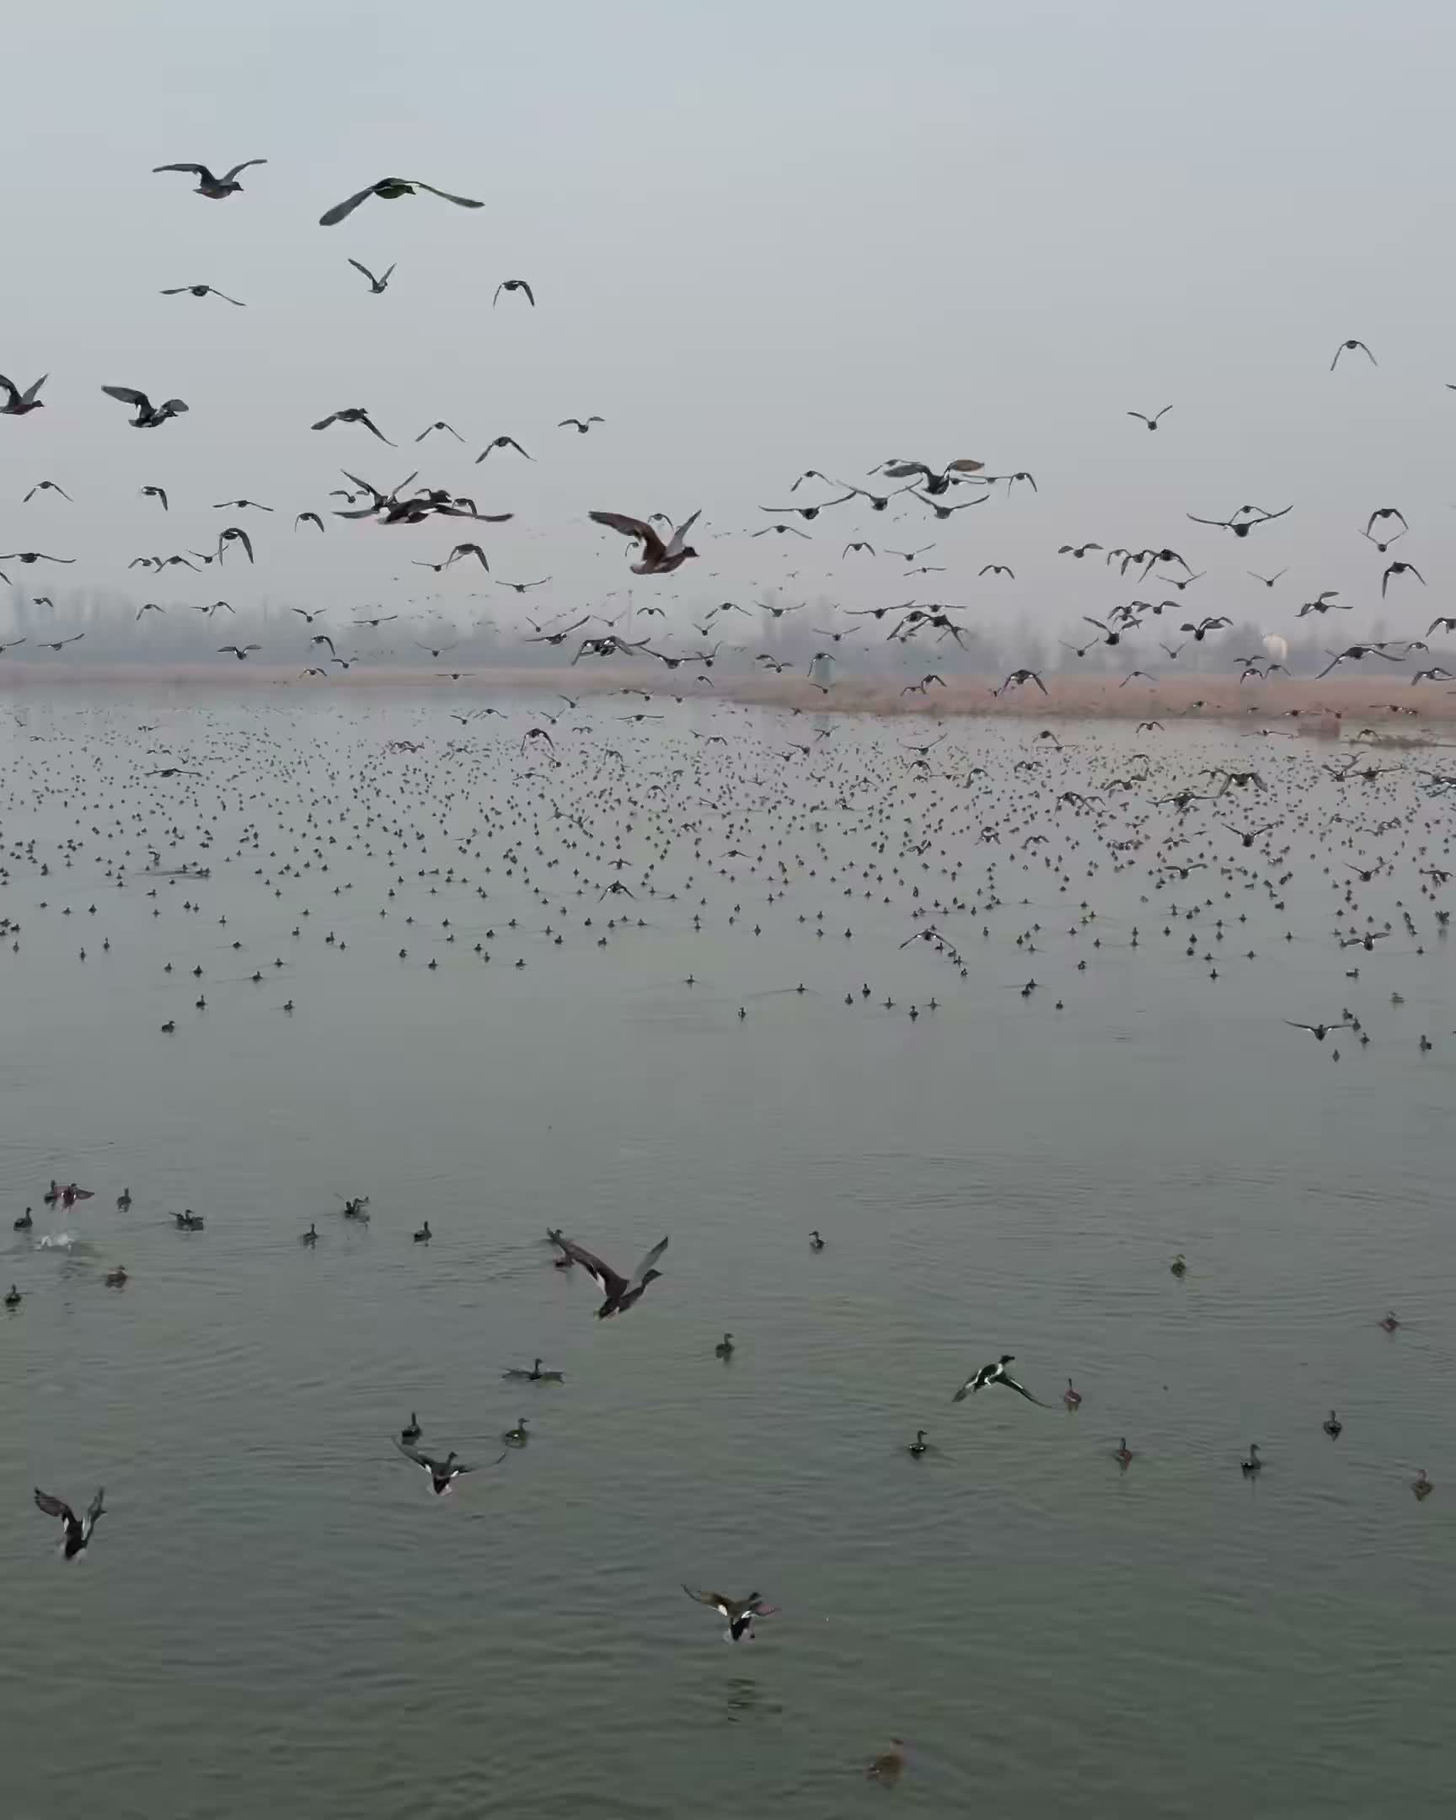
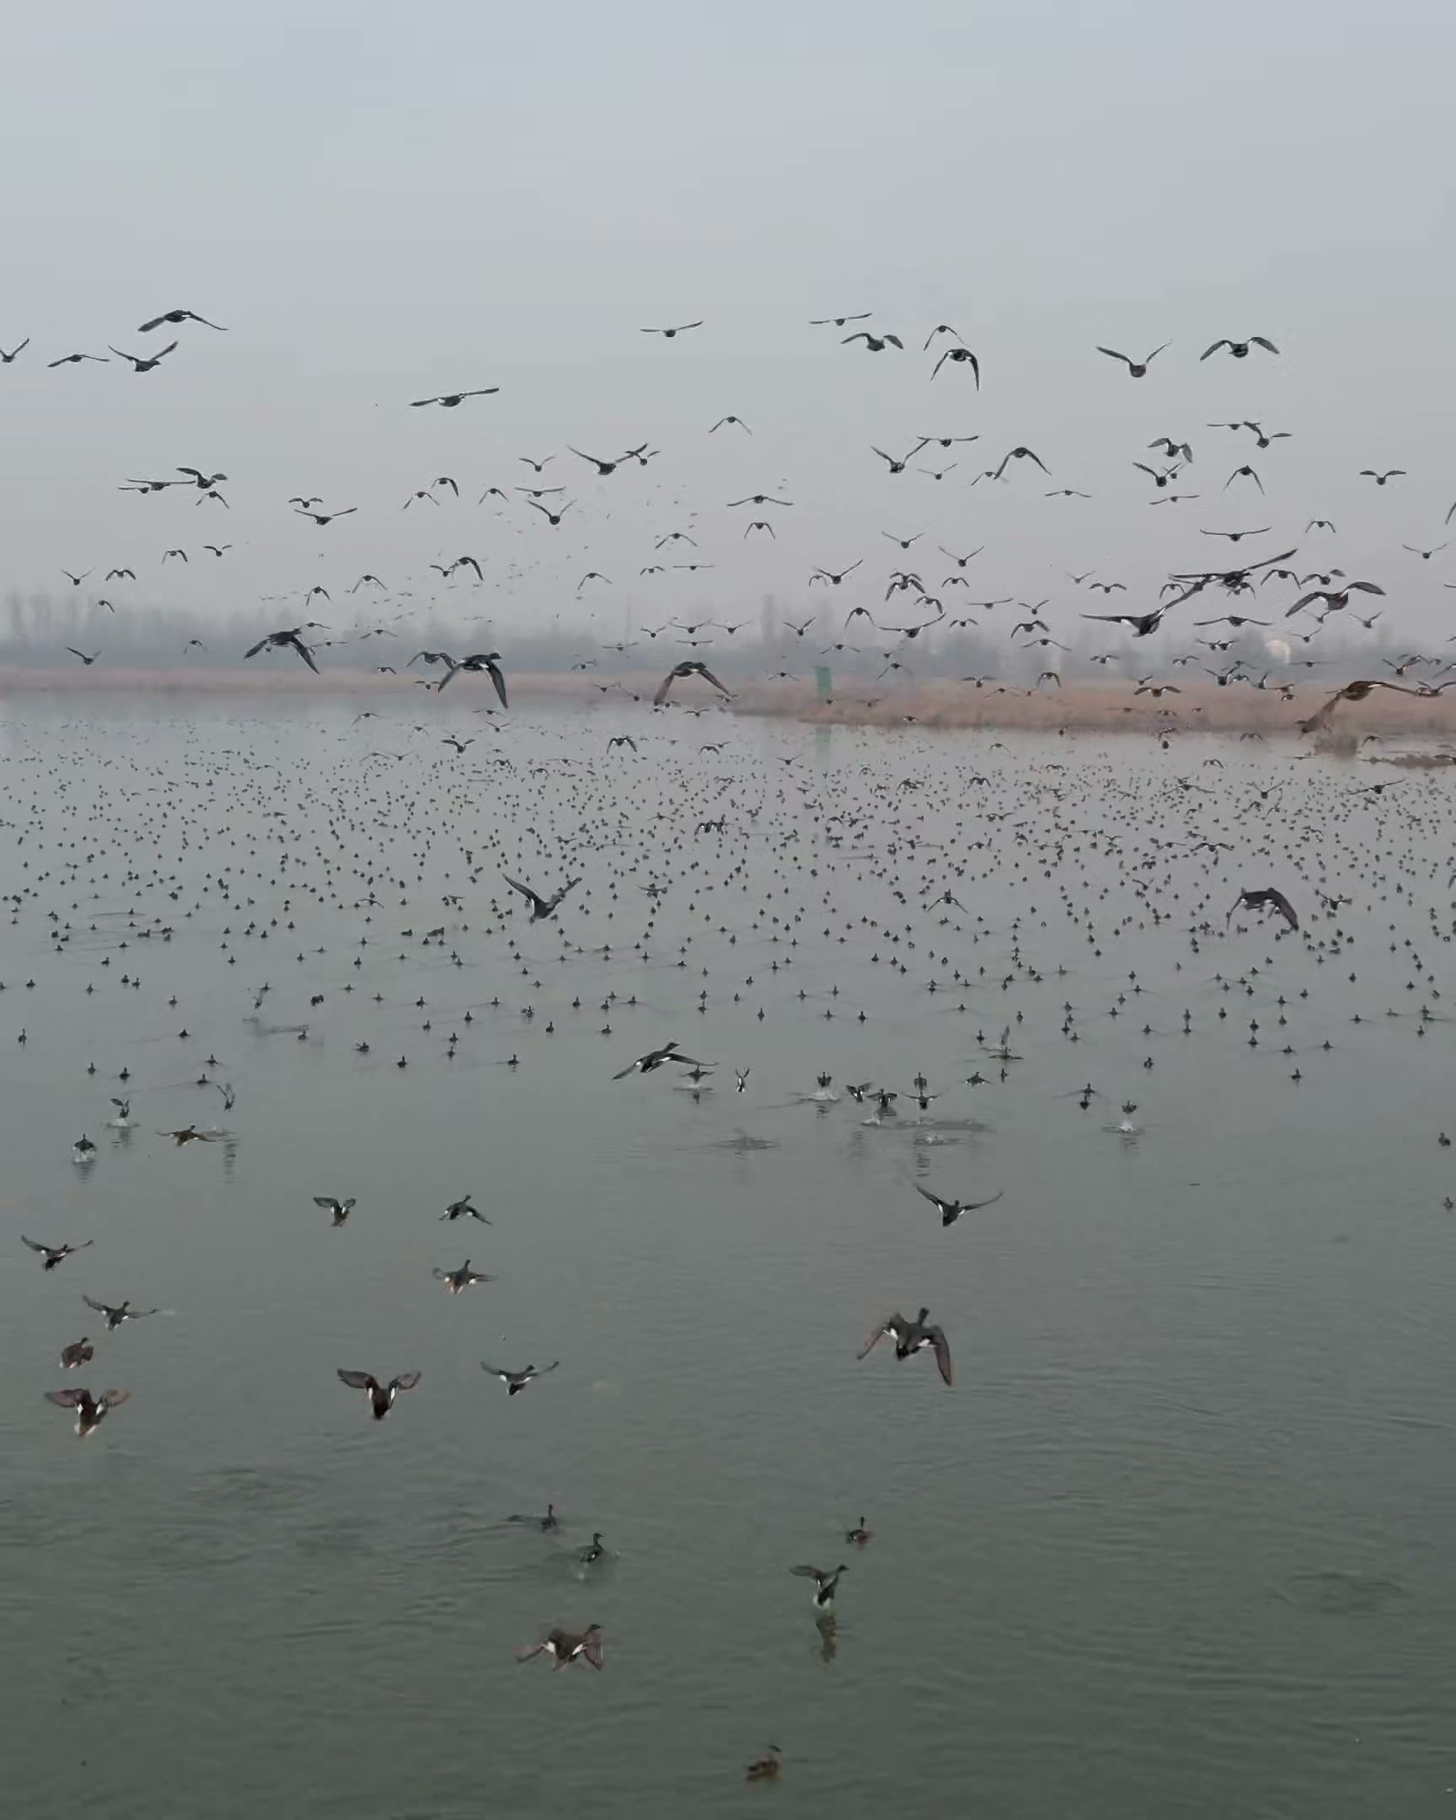
Fix hamburger menu scroll jank and related video/perf issues
The custom smooth-scroll fought the site's own CSS scroll-behavior:smooth,
restarting the browser's animation every frame and barely moving the page.
Turn it off for the duration of the JS-driven scroll instead. Also scale
duration with distance (900ms flat felt rushed for far sections, sluggish
for near ones) and freeze the scroll-linked color engine during the jump
so it isn't repainting 20 CSS vars at 60fps on top of the scroll animation.

Found and fixed while reviewing: the freeze mode was also holding the
parallax transform stale, snapping section photos by up to 130px on
unfreeze; SectionVideoBackdrop was preloading every video instead of just
the priority one, and shipping its <source> tags in the SSR HTML let
mobile browsers start (and abort) a desktop video download before JS
could pick the right source.

Also folds in already-approved SEO/perf audit items that were sitting
uncommitted: canonical URL, real production domain, site-wide fonts and
<html lang> via _document.js, unified image quality/sizes, and an unused
asset removed.

diff --git a/components/hunting-day/useHuntingDayEngine.js b/components/hunting-day/useHuntingDayEngine.js
@@ -20,6 +20,7 @@ export default function useHuntingDayEngine(rootRef) {
   const reduced = useRef(false);
   const raf = useRef(0);
   const roRaf = useRef(0);
+  const suspended = useRef(false);
 
   useEffect(() => {
     const root = rootRef.current;
@@ -74,10 +75,9 @@ export default function useHuntingDayEngine(rootRef) {
       return out;
     };
 
-    const paint = () => {
-      const p = bandProgress();
-      const s = sample(p, reduced.current, LAB);
-
+    // Parallax runs in every mode: a transform left stale while colors are
+    // frozen snaps the landing photo by the full cap when they resume.
+    const paint = (mode) => {
       if (!reduced.current && !parallaxEls.current) {
         parallaxEls.current = [...root.querySelectorAll('img[data-parallax], video[data-parallax]')];
       }
@@ -102,6 +102,10 @@ export default function useHuntingDayEngine(rootRef) {
       } else if (reduced.current && parallaxEls.current) {
         parallaxEls.current.forEach((img) => { img.style.transform = 'none'; });
       }
+      if (mode === 'parallax-only') return;
+
+      const p = mode === 'frozen' ? 0 : bandProgress();
+      const s = sample(p, reduced.current, LAB);
 
       let ink = INKS[0], best = 0;
       for (const c of INKS) {
@@ -164,7 +168,9 @@ export default function useHuntingDayEngine(rootRef) {
       const txt = String(Math.floor(m / 60)).padStart(2, '0') + ':' + String(m % 60).padStart(2, '0');
       if (clock && clock.textContent !== txt) {
         clock.textContent = txt;
-        if (NAMED_STOP_MINUTES.includes(m) && !reduced.current) {
+        // 05:40 is itself a named stop, so without this every menu tap would
+        // pop the clock on the way into the frozen palette.
+        if (NAMED_STOP_MINUTES.includes(m) && !reduced.current && mode !== 'frozen') {
           clock.style.transition = 'none';
           clock.style.transform = 'scale(1.22)';
           requestAnimationFrame(() => {
@@ -179,7 +185,7 @@ export default function useHuntingDayEngine(rootRef) {
 
     // paint() reads live scroll position, so one rAF per frame is enough —
     // no need to also paint synchronously inside the scroll handler itself.
-    const tick = () => { raf.current = 0; paint(); };
+    const tick = () => { raf.current = 0; paint(suspended.current ? 'parallax-only' : undefined); };
     const onScroll = () => {
       if (raf.current) return;
       raf.current = requestAnimationFrame(tick);
@@ -191,11 +197,27 @@ export default function useHuntingDayEngine(rootRef) {
       paint();
     };
 
+    // Programmatic scroll fires far more 'scroll' events than touch does, so
+    // callers can pause repaints here and land once on unfreeze instead.
+    const onColorFreeze = () => {
+      if (reduced.current) return;
+      suspended.current = true;
+      paint('frozen');
+    };
+    // Clears the flag even under reduced motion, so a mid-scroll preference
+    // change can't leave the palette suspended for good.
+    const onColorUnfreeze = () => {
+      suspended.current = false;
+      if (!reduced.current) paint();
+    };
+
     measureBands();
     paint();
     window.addEventListener('scroll', onScroll, { passive: true });
     window.addEventListener('resize', onResize);
     reducedMotionQuery.addEventListener('change', onReducedMotionChange);
+    window.addEventListener('hd:color-freeze', onColorFreeze);
+    window.addEventListener('hd:color-unfreeze', onColorUnfreeze);
 
     let ro;
     if (window.ResizeObserver) {
@@ -236,10 +258,13 @@ export default function useHuntingDayEngine(rootRef) {
       window.removeEventListener('scroll', onScroll);
       window.removeEventListener('resize', onResize);
       reducedMotionQuery.removeEventListener('change', onReducedMotionChange);
+      window.removeEventListener('hd:color-freeze', onColorFreeze);
+      window.removeEventListener('hd:color-unfreeze', onColorUnfreeze);
       if (ro) ro.disconnect();
       if (strip && onStrip) strip.removeEventListener('scroll', onStrip);
       if (roRaf.current) cancelAnimationFrame(roRaf.current);
       if (raf.current) cancelAnimationFrame(raf.current);
+      suspended.current = false;
       const rs = document.documentElement.style;
       CUSTOM_PROPS.forEach((k) => rs.removeProperty(k));
       // <body> survives Pages Router client-nav, so paint()'s bg write

diff --git a/components/hunting-day/SectionVideoBackdrop.jsx b/components/hunting-day/SectionVideoBackdrop.jsx
@@ -1,11 +1,35 @@
-import { useEffect, useLayoutEffect, useRef } from 'react';
+import { useEffect, useLayoutEffect, useRef, useState } from 'react';
 
 // Like SectionBackdrop but for a looping muted video. Pauses when scrolled
 // far from view so it isn't decoding while nobody can see it.
-export default function SectionVideoBackdrop({ sources, poster, objectPosition = '50% 50%', scrimVar = '--rb-scrim', scrimFallback = 'rgba(0,0,0,0.5)', priority = false, sticky = false }) {
+export default function SectionVideoBackdrop({ sources, mobileSources, poster, objectPosition = '50% 50%', scrimVar = '--rb-scrim', scrimFallback = 'rgba(0,0,0,0.5)', priority = false, sticky = false }) {
   const videoRef = useRef(null);
   const reduced = useRef(false);
   const intersecting = useRef(false);
+  // Empty on the server: Chrome fetches a server-rendered <source> before
+  // hydration, so mobile would download the desktop file and abort it.
+  const [activeSources, setActiveSources] = useState([]);
+  const [activePoster, setActivePoster] = useState(priority ? poster : undefined);
+  const picked = useRef(false);
+
+  // <source media> isn't honored outside Safari, so pick the set here instead — before preload starts.
+  // React owns the <source> children; manually touching them (removeChild
+  // etc.) fights React's own reconciliation later and throws NotFoundError.
+  useLayoutEffect(() => {
+    if (picked.current) return; // props are fresh arrays each render; decide once
+    picked.current = true;
+    setActiveSources(mobileSources && window.innerWidth < 640 ? mobileSources : sources);
+  }, [sources, mobileSources]);
+
+  // Only the above-the-fold video is worth fetching eagerly; the rest wait
+  // for the observer below, which is what keeps preload="none" meaningful.
+  useLayoutEffect(() => {
+    const video = videoRef.current;
+    if (!video || !activeSources.length || !priority) return;
+    video.preload = 'auto';
+    video.load();
+    video.play().catch(() => {});
+  }, [activeSources, priority]);
 
   // Runs before paint so an autoplaying video never visibly starts moving.
   useLayoutEffect(() => {
@@ -30,15 +54,20 @@ export default function SectionVideoBackdrop({ sources, poster, objectPosition =
     const io = new IntersectionObserver(
       ([entry]) => {
         intersecting.current = entry.isIntersecting;
-        if (reduced.current) return;
-        if (entry.isIntersecting) video.play().catch(() => {});
-        else video.pause();
+        // Non-priority posters load on first approach instead of at mount —
+        // no reason to fetch a poster for a section nobody's scrolled near yet.
+        if (entry.isIntersecting) {
+          setActivePoster((p) => p ?? poster);
+          if (!reduced.current) video.play().catch(() => {});
+        } else if (!reduced.current) {
+          video.pause();
+        }
       },
       { rootMargin: '50% 0px' }
     );
     io.observe(video);
     return () => io.disconnect();
-  }, []);
+  }, [poster]);
 
   return (
     <>
@@ -57,15 +86,14 @@ export default function SectionVideoBackdrop({ sources, poster, objectPosition =
       >
         <video
           ref={videoRef}
-          poster={poster}
+          poster={activePoster}
           muted
           loop
           playsInline
-          autoPlay={priority}
-          preload={priority ? 'auto' : 'none'}
+          preload="none"
           style={{ position: 'absolute', inset: 0, width: '100%', height: '100%', objectFit: 'cover', objectPosition }}
         >
-          {sources.map((s) => (
+          {activeSources.map((s) => (
             <source key={s.src} src={s.src} type={s.type} />
           ))}
         </video>

diff --git a/components/hunting-day/Header.jsx b/components/hunting-day/Header.jsx
@@ -9,6 +9,37 @@ const NAV_ITEMS = [
   { href: '#travel', label: 'Travel' },
 ];
 
+const easeInOutCubic = (t) => (t < 0.5 ? 4 * t * t * t : 1 - (-2 * t + 2) ** 3 / 2);
+
+// A flat duration made the ~9000px jump to Travel feel rushed and the near
+// jump to The Day feel sluggish — scale with distance instead, clamped.
+const scrollDuration = (distance) => Math.min(1700, 500 + Math.abs(distance) * 0.13);
+
+// Native scrollIntoView's "smooth" has no duration control and finishes
+// fast regardless of distance — this drives the scroll ourselves instead.
+function smoothScrollTo(targetY, duration, onDone) {
+  const root = document.documentElement;
+  // globals.css sets html{scroll-behavior:smooth}, which would turn each
+  // per-frame scrollTo into its own restarting animation and stall the scroll.
+  const prevBehavior = root.style.scrollBehavior;
+  root.style.scrollBehavior = 'auto';
+
+  const startY = window.scrollY;
+  const distance = targetY - startY;
+  const startTime = performance.now();
+  const step = (now) => {
+    const t = Math.min(1, (now - startTime) / duration);
+    window.scrollTo(0, startY + distance * easeInOutCubic(t));
+    if (t < 1) {
+      requestAnimationFrame(step);
+    } else {
+      root.style.scrollBehavior = prevBehavior;
+      onDone?.();
+    }
+  };
+  requestAnimationFrame(step);
+}
+
 export default function Header() {
   const [open, setOpen] = useState(false);
   const [narrow, setNarrow] = useState(false);
@@ -31,7 +62,16 @@ export default function Header() {
     const reduced = window.matchMedia('(prefers-reduced-motion: reduce)').matches;
     requestAnimationFrame(() => {
       requestAnimationFrame(() => {
-        target.scrollIntoView({ behavior: reduced ? 'instant' : 'smooth', block: 'start' });
+        const rect = target.getBoundingClientRect();
+        const scrollMarginTop = parseFloat(getComputedStyle(target).scrollMarginTop) || 0;
+        const targetY = rect.top + window.scrollY - scrollMarginTop;
+        if (reduced) {
+          window.scrollTo(0, targetY);
+        } else {
+          window.dispatchEvent(new Event('hd:color-freeze'));
+          const duration = scrollDuration(targetY - window.scrollY);
+          smoothScrollTo(targetY, duration, () => window.dispatchEvent(new Event('hd:color-unfreeze')));
+        }
       });
     });
   };

diff --git a/pages/index.js b/pages/index.js
@@ -1,7 +1,7 @@
 import Head from 'next/head';
 import HuntingDay from '../components/hunting-day/HuntingDay';
 
-const SITE_URL = 'https://rosybill-outfitters.vercel.app'; // TODO: replace with the production domain once confirmed
+const SITE_URL = 'https://rosybill-outfitters.com';
 
 export default function Home() {
   return (
@@ -13,6 +13,7 @@ export default function Home() {
           content="Follow one full day of duck and dove hunting at Rosybill Outfitters, Argentina's family-run wingshooting lodge on the wetlands of Buenos Aires since 1993."
         />
         <meta name="viewport" content="width=device-width, initial-scale=1" />
+        <link rel="canonical" href={`${SITE_URL}/`} />
 
         {/* Favicon */}
         <link rel="icon" href="/favicon.ico" />
@@ -20,13 +21,6 @@ export default function Home() {
         <link rel="icon" type="image/png" sizes="16x16" href="/favicon-16x16.png" />
         <link rel="apple-touch-icon" href="/apple-touch-icon.png" />
         <link rel="manifest" href="/site.webmanifest" />
-
-        {/* Design fonts */}
-        <link rel="preconnect" href="https://fonts.gstatic.com" crossOrigin="anonymous" />
-        <link
-          href="https://fonts.googleapis.com/css2?family=Instrument+Serif:ital@0;1&family=Archivo:wght@400;500;600&family=JetBrains+Mono:wght@400;500&display=swap"
-          rel="stylesheet"
-        />
 
         {/* Open Graph / Facebook */}
         <meta property="og:type" content="website" />

diff --git a/components/hunting-day/Guides.jsx b/components/hunting-day/Guides.jsx
@@ -19,7 +19,7 @@ export default function Guides() {
         justifyContent: 'center',
       }}
     >
-      <SectionBackdrop src={banado} objectPosition="50% 58%" scrimVar="--rb-scrim-low" scrimFallback="rgba(0,0,0,0.45)" sizes="(max-width: 640px) 305vw, 110vw" />
+      <SectionBackdrop src={banado} objectPosition="50% 58%" scrimVar="--rb-scrim-low" scrimFallback="rgba(0,0,0,0.45)" sizes="(max-width: 640px) 305vw, 110vw" quality={65} />
       <div style={{ position: 'relative', display: 'flex', flexWrap: 'wrap', gap: '56px 64px', alignItems: 'center' }}>
         <div style={{ flex: '1 1 400px', minWidth: 0, maxWidth: 560 }}>
           <div style={{ display: 'flex', alignItems: 'center', flexWrap: 'wrap', gap: '10px 14px' }}>

diff --git a/components/hunting-day/Hero.jsx b/components/hunting-day/Hero.jsx
@@ -29,6 +29,10 @@ export default function Hero() {
           { src: `${MEDIA_BASE}/videos/hunting-day/hero-sunrise-hevc.mp4`, type: 'video/mp4; codecs=hvc1' },
           { src: `${MEDIA_BASE}/videos/hunting-day/hero-sunrise.mp4`, type: 'video/mp4; codecs=avc1' },
         ]}
+        mobileSources={[
+          { src: `${MEDIA_BASE}/videos/hunting-day/hero-sunrise-mobile-hevc.mp4`, type: 'video/mp4; codecs=hvc1' },
+          { src: `${MEDIA_BASE}/videos/hunting-day/hero-sunrise-mobile.mp4`, type: 'video/mp4; codecs=avc1' },
+        ]}
         poster="/images/hunting-day/hd/hero-sunrise-poster.jpg"
         objectPosition="50% 45%"
         priority

diff --git a/components/hunting-day/WhoWeAre.jsx b/components/hunting-day/WhoWeAre.jsx
@@ -18,7 +18,7 @@ export default function WhoWeAre() {
         justifyContent: 'center',
       }}
     >
-      <SectionBackdrop src={banado} objectPosition="50% 32%" scrimVar="--rb-scrim-low" scrimFallback="rgba(0,0,0,0.45)" sizes="(max-width: 640px) 240vw, 100vw" />
+      <SectionBackdrop src={banado} objectPosition="50% 32%" scrimVar="--rb-scrim-low" scrimFallback="rgba(0,0,0,0.45)" sizes="(max-width: 640px) 305vw, 110vw" quality={65} />
       <div style={{ position: 'relative', display: 'flex', flexWrap: 'wrap', gap: '56px 64px', alignItems: 'center' }}>
         <PlateFigure
           src={equipo}

diff --git a/components/hunting-day/FirstLight.jsx b/components/hunting-day/FirstLight.jsx
@@ -26,7 +26,7 @@ export default function FirstLight() {
         justifyContent: 'center',
       }}
     >
-      <SectionBackdrop src={frost} objectPosition="50% 62%" sizes="(max-width: 640px) 710vw, 100vw" />
+      <SectionBackdrop src={frost} objectPosition="50% 62%" sizes="(max-width: 640px) 710vw, 100vw" quality={65} />
       {/* The design mixes two color washes over the frost photo so it reads
           as "first light green", independent of the live scroll palette. */}
       <div style={{ position: 'absolute', inset: 0, background: '#2A3A2E', mixBlendMode: 'color', opacity: 0.92 }} />

diff --git a/pages/_document.js b/pages/_document.js
@@ -1,0 +1,19 @@
+import { Html, Head, Main, NextScript } from 'next/document';
+
+export default function Document() {
+  return (
+    <Html lang="en">
+      <Head>
+        <link rel="preconnect" href="https://fonts.gstatic.com" crossOrigin="anonymous" />
+        <link
+          href="https://fonts.googleapis.com/css2?family=Instrument+Serif:ital@0;1&family=Archivo:wght@400;500;600&family=JetBrains+Mono:wght@400;500&display=swap"
+          rel="stylesheet"
+        />
+      </Head>
+      <body>
+        <Main />
+        <NextScript />
+      </body>
+    </Html>
+  );
+}

diff --git a/components/hunting-day/OpenWater.jsx b/components/hunting-day/OpenWater.jsx
@@ -18,7 +18,7 @@ export default function OpenWater() {
         paddingTop: 110,
       }}
     >
-      <SectionBackdrop src={banado} objectPosition="50% 62%" sizes="(max-width: 640px) 180vw, 100vw" />
+      <SectionBackdrop src={banado} objectPosition="50% 62%" sizes="(max-width: 640px) 305vw, 110vw" quality={65} />
       <div style={{ position: 'relative', fontFamily: "'JetBrains Mono',monospace", fontSize: 11, letterSpacing: '0.2em', color: 'var(--rb-ink-faint, rgba(232,227,214,0.5))' }}>
         10:00
       </div>

diff --git a/components/hunting-day/LastLight.jsx b/components/hunting-day/LastLight.jsx
@@ -41,7 +41,7 @@ export default function LastLight() {
         paddingBottom: 80,
       }}
     >
-      <SectionBackdrop src={palomas} objectPosition="50% 34%" sizes="(max-width: 640px) 1180vw, 255vw" />
+      <SectionBackdrop src={palomas} objectPosition="50% 34%" sizes="(max-width: 640px) 1180vw, 255vw" quality={65} />
       <div style={{ position: 'relative' }}>
         <div style={{ display: 'flex', alignItems: 'center', flexWrap: 'wrap', gap: '10px 14px' }}>
           <span

diff --git a/next.config.ts b/next.config.ts
@@ -3,6 +3,8 @@ import type { NextConfig } from "next";
 const nextConfig: NextConfig = {
   images: {
     formats: ['image/avif', 'image/webp'],
+    // Every quality passed to <Image>; Next 16 rejects unlisted values.
+    qualities: [65, 75, 82, 90],
   },
 };
 
